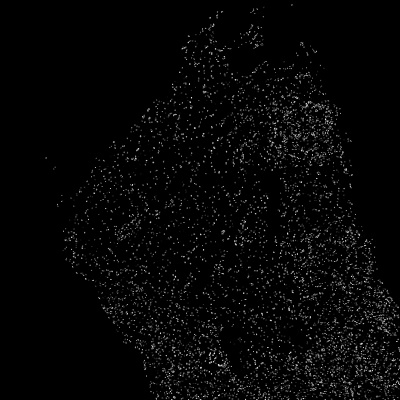
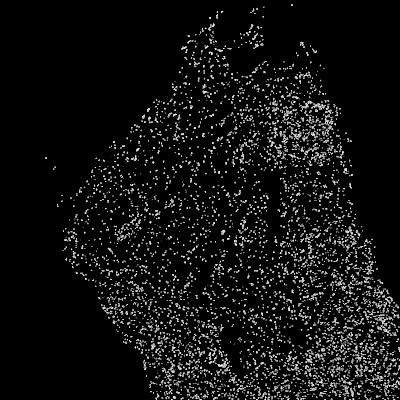
update stardisk saturation. Remove barplots from Step 8

diff --git a/CASSATT-app/www/css/style.css b/CASSATT-app/www/css/style.css
@@ -90,3 +90,11 @@ h3 {
 #navbar .action-button:not(#hide_help) {
   margin-right: 12px;
 }
+
+/* -- Step 8: Neighborhood Analysis -- */ 
+#decagons_col {
+  padding-right: 0px;
+}
+#deca_key_col {
+  padding-left: 0px;
+}

diff --git a/CASSATT-app/www/neighbor_functions.py b/CASSATT-app/www/neighbor_functions.py
@@ -3,10 +3,12 @@ import pandas as pd
 from scipy.spatial import Voronoi
 from grispy import GriSPy
 
+neighborhood_data = pd.read_csv("www/neighborhood_data.csv")
 coords = neighborhood_data[["Global_x", "Global_y"]]
 coords_array = np.asarray(coords)
 coords_gsp = GriSPy(coords_array)
 vor = Voronoi(np.asarray(coords))
+
 pop_colors = {
   "Tumor.A" : "#3d3456",
   "Tumor.B" : "#75647a",
@@ -126,8 +128,6 @@ def deca_colors(neighbor_data):
           count = 0
   
   return(d_turtle)
-  
-  
   
   
   
